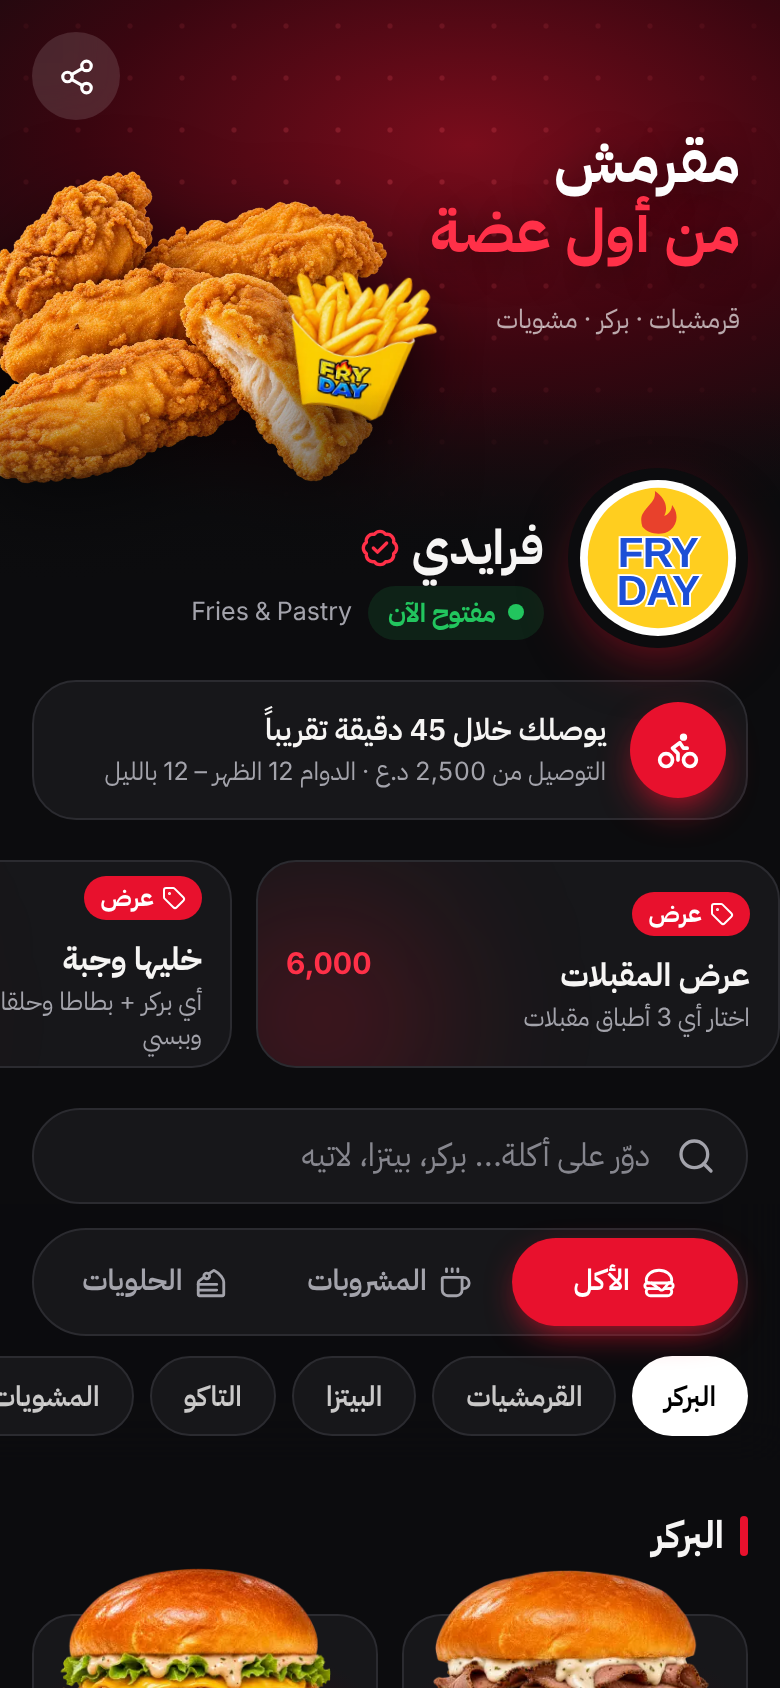
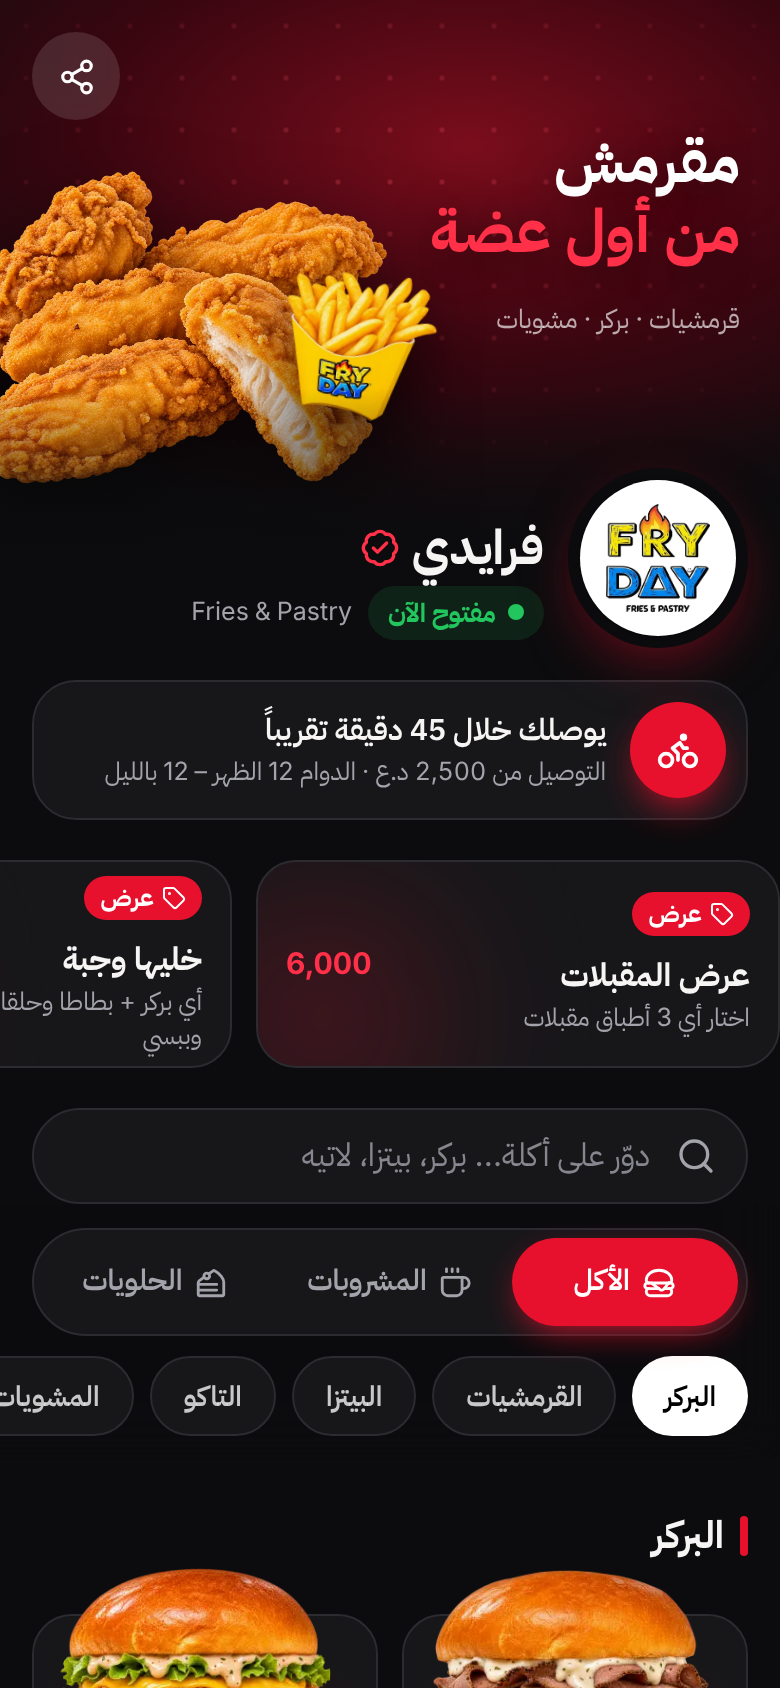
إضافة شعار فرايدي الرسمي لكل النماذج + تحديث القرارات
- الشعار الرسمي (خلفية شفافة) بدل الشعار المرسوم: دائرة بيضاء بالرؤوس وبمكان الأصناف بلا صورة
- أيقونات favicon و apple-touch-icon و 192/512 من الشعار
- CLAUDE.md: سعر السطر يشمل الإضافات (مؤكد)، ماكو منطقة ثالثة، وقت التوصيل 45 دقيقة
- تحديث اللقطات النهائية

Claude-Session: https://claude.ai/code/session_01PqrfEhAJdwDcEq4tWxgRbc

Changed region(s): [[0.7385, 0.2773, 0.9538, 0.3697]]

diff --git a/src/components/Logo.tsx b/src/components/Logo.tsx
@@ -1,14 +1,25 @@
-/** شعار مؤقت (وردمارك FRY DAY بألوان العلبة) — يتبدل بملف الشعار الرسمي من أحمد */
-export function Logo({ size = 56, ring = true, className = '' }: { size?: number; ring?: boolean; className?: string }) {
+/** شعار فرايدي الرسمي (assets-input/logo-fryday.webp → public/brand/) */
+const base = import.meta.env.BASE_URL;
+
+interface Props {
+  size?: number;
+  /** badge = دائرة بيضاء والشعار داخلها (للرؤوس) · mark = الشعار وحده (للمساحات الكبيرة) */
+  variant?: 'badge' | 'mark';
+  /** حلقة بيضاء خارجية (قديم — يبقى للتوافق) */
+  ring?: boolean;
+  className?: string;
+}
+
+export function Logo({ size = 56, variant = 'badge', className = '' }: Props) {
+  if (variant === 'mark') {
+    return (
+      <img src={`${base}brand/logo.webp`} alt="شعار فرايدي FRY DAY" width={size} height={size} decoding="async"
+        className={`object-contain drop-shadow-[0_10px_18px_rgba(0,0,0,0.18)] ${className}`} style={{ width: size, height: size }} />
+    );
+  }
   return (
-    <svg width={size} height={size} viewBox="0 0 100 100" className={className} role="img" aria-label="شعار فرايدي FRY DAY">
-      {ring && <circle cx="50" cy="50" r="50" fill="#fff" />}
-      <circle cx="50" cy="50" r={ring ? 45 : 50} fill="#FFCE1F" />
-      <path d="M40 22c3-6 9-8 8-15 6 4 9 10 6 16 3-1 5-4 5-7 4 5 4 12-1 16-5 4-14 3-18-2-1-3-1-6 0-8z" fill="#E8412C" />
-      <g fontFamily="'Baloo Bhaijaan 2','Arial Black',sans-serif" fontWeight="800" textAnchor="middle" fill="#1C4FD6" stroke="#fff" strokeWidth="2.4" paintOrder="stroke" letterSpacing="-0.5">
-        <text x="50" y="56" fontSize="27">FRY</text>
-        <text x="50" y="80" fontSize="27">DAY</text>
-      </g>
-    </svg>
+    <span className={`inline-grid shrink-0 place-items-center rounded-full bg-white shadow-[0_6px_16px_-8px_rgba(0,0,0,0.35)] ring-1 ring-black/5 ${className}`} style={{ width: size, height: size }}>
+      <img src={`${base}brand/logo-sm.webp`} alt="شعار فرايدي FRY DAY" decoding="async" className="object-contain" style={{ width: size * 0.7, height: size * 0.7 }} />
+    </span>
   );
 }

diff --git a/src/themes/c/index.tsx b/src/themes/c/index.tsx
@@ -53,7 +53,7 @@ function RestaurantHead() {
   return (
     <div className="relative z-10 -mt-14 px-4">
       <div className="flex items-end gap-3">
-        <div className="rounded-full bg-bg p-1.5 shadow-[0_10px_30px_-8px_rgba(232,17,45,0.55)]"><Logo size={78} ring /></div>
+        <div className="rounded-full bg-bg p-1.5 shadow-[0_10px_30px_-8px_rgba(232,17,45,0.55)]"><Logo size={78} /></div>
         <div className="min-w-0 flex-1 pb-1">
           <h1 className="flex items-center gap-1.5 text-[24px] leading-tight font-bold">{s.restaurantName} <BadgeCheck size={20} className="text-primary-2" aria-label="المطعم الرسمي" /></h1>
           <div className="mt-1 flex items-center gap-2"><StatusPill /><span className="text-[12.5px] text-muted">{s.tagline}</span></div>
@@ -210,7 +210,7 @@ function ItemC({ item, onClose }: { item: Item; onClose: () => void }) {
             <Plate file={item.image} alt={item.name} size="lg" eager />
           </motion.div>
         ) : (
-          <div className="absolute inset-0 grid place-items-center"><Logo size={130} /></div>
+          <div className="absolute inset-0 grid place-items-center"><Logo size={150} className="shadow-[0_16px_40px_-14px_rgba(0,0,0,0.45)]" /></div>
         )}
       </div>
       <div className="relative -mt-4 flex-1 rounded-t-[28px] border-t border-line bg-surface px-4 pt-5">

diff --git a/index.html b/index.html
@@ -6,7 +6,9 @@
     <meta name="theme-color" content="#FFC72C" />
     <meta name="description" content="منيو فرايدي — اطلب أونلاين، يوصلك الطلب على واتساب. النجف — شارع الغدير" />
     <title>فرايدي — المنيو</title>
-    <link rel="icon" href="./favicon.svg" type="image/svg+xml" />
+    <link rel="icon" href="./favicon.png" type="image/png" />
+    <link rel="apple-touch-icon" href="./brand/apple-touch-icon.png" />
+    <link rel="preload" href="./brand/logo-sm.webp" as="image" type="image/webp" />
   </head>
   <body>
     <div id="root"></div>

diff --git a/src/screens/Chooser.tsx b/src/screens/Chooser.tsx
@@ -16,7 +16,7 @@ export function Chooser() {
   return (
     <div className="mx-auto min-h-dvh max-w-[480px] bg-[#f7f4ee] px-4 pt-8 pb-12 text-[#1a1612]" style={{ fontFamily: 'Cairo, system-ui, sans-serif' }}>
       <div className="flex items-center gap-3">
-        <Logo size={60} />
+        <Logo size={64} variant="mark" />
         <div>
           <h1 className="text-[24px] leading-tight font-extrabold">منيو فرايدي</h1>
           <p className="text-[14px] text-[#685f54]">المرحلة 0 — اختار النموذج اللي يعجبك</p>

diff --git a/src/themes/a/index.tsx b/src/themes/a/index.tsx
@@ -207,7 +207,7 @@ function ItemA({ item, onClose }: { item: Item; onClose: () => void }) {
             <Plate file={item.image} alt={item.name} size="lg" eager />
           </motion.div>
         ) : (
-          <div className="absolute inset-0 grid place-items-center"><Logo size={120} /></div>
+          <div className="absolute inset-0 grid place-items-center"><Logo size={150} className="shadow-[0_16px_40px_-14px_rgba(0,0,0,0.35)]" /></div>
         )}
       </div>
       <div className="relative -mt-6 flex-1 rounded-t-[28px] bg-bg px-4 pt-6">

diff --git a/src/themes/b/index.tsx b/src/themes/b/index.tsx
@@ -183,7 +183,7 @@ function ItemB({ item, onClose }: { item: Item; onClose: () => void }) {
             <Plate file={item.image} alt={item.name} size="lg" eager />
           </motion.div>
         ) : (
-          <div className="absolute inset-x-0 top-16 grid place-items-center"><Logo size={130} /></div>
+          <div className="absolute inset-x-0 top-16 grid place-items-center"><Logo size={150} className="shadow-[0_16px_40px_-14px_rgba(0,0,0,0.45)]" /></div>
         )}
       </div>
       <div className="flex-1 px-5 pt-3">

diff --git a/src/themes/d/index.tsx b/src/themes/d/index.tsx
@@ -172,7 +172,7 @@ function ItemD({ item, onClose }: { item: Item; onClose: () => void }) {
             <Plate file={item.image} alt={item.name} size="lg" eager />
           </motion.div>
         ) : (
-          <div className="absolute inset-0 grid place-items-center"><Logo size={130} /></div>
+          <div className="absolute inset-0 grid place-items-center"><Logo size={150} className="shadow-[0_16px_40px_-14px_rgba(0,0,0,0.45)]" /></div>
         )}
       </div>
       <div className="flex-1 px-5 pt-3">

diff --git a/CLAUDE.md b/CLAUDE.md
@@ -15,8 +15,9 @@
 | واتساب الطلبات | `9647715796059` (رقم أحمد للتجربة — يتغير من الإعدادات) |
 | الاتصال | 7320 و 07893000406 |
 | العنوان | النجف — شارع الغدير، مجاور جسر المشاة |
+| وقت التوصيل | 45 دقيقة تقريباً (أكده أحمد) — `settings.etaMinutes` |
 | الدوام | 12:00 الظهر — 12:00 بالليل (بغداد UTC+3). برا الدوام: المنيو يفتح، زر الطلب مسكّر + "نستقبل الطلبات من الساعة 12 الظهر" |
-| مناطق التوصيل | النجف 2,500 — الكوفة 3,000. "التوصيل داخل النجف والكوفة فقط" |
+| مناطق التوصيل | النجف 2,500 — الكوفة 3,000 **فقط** (ماكو منطقة ثالثة). "التوصيل داخل النجف والكوفة فقط" |
 | حد أدنى / توصيل مجاني | لا يوجد (إعدادات `minOrder` و `freeDelivery` جاهزة للتفعيل) |
 | الدفع | كاش عند الاستلام |
 | نوع الطلب | توصيل أو استلام من المطعم |
@@ -24,7 +25,7 @@
 | كيك المناسبات (S025) | سعره "حسب الطلب" → ما ينطلب أونلاين، زر "اتصل بينا" |
 | أسماء الأصناف بالرسالة | نفس أسماء المنيو (مطابقة لنظام الكاشير) |
 | العملة | د.ع، أرقام لاتينية بفواصل (12,500) |
-| سعر السطر بالرسالة | **يشمل الخيارات** (2× بركر + وجبة = 26,000) حتى المجموع يطابق |
+| سعر السطر بالرسالة | **يشمل الخيارات** (2× بركر + وجبة = 26,000) حتى المجموع يطابق — أكده أحمد (المثال الأول بالبرومبت كان غلط) |
 | الخيارات بالرسالة | الإجباري (واحد) بين قوسين جنب الاسم `(وسط)`، والباقي نقاط تحت الصنف `• ...` |
 | ممنوع | تقييمات نجوم، سعرات، أي رقم وهمي، أي عرض/خصم مو حقيقي |
 | مؤجل (لا تبنيه) | نقاط الولاء، أكواد الخصم، الطلب المجدول، طلب الطاولة، تتبع السائق |
@@ -36,7 +37,7 @@
 4. حوّل لوجبة +3,000: البركر والتوست (عدا وجبة الأطفال).
 5. صلصة إضافية 1,000: المقالي فقط.
 6. إضافات القهوة: القهوة المختصة فقط.
-7. منطقة ثالثة "أبعد من النجف والكوفة": **بانتظار جواب أحمد**.
+7. منطقة ثالثة "أبعد من النجف والكوفة": **ماكو** — بس النجف والكوفة (جواب أحمد).
 
 ## التقنية
 
@@ -91,7 +92,9 @@ npx vite preview --port 4173 & node scripts/screenshots.mjs   # لقطات (EXTR
 - [x] **المرحلة 0 — أربع نماذج تصميم** (A الخلطة، B البرتقالي، C الفخم الأسود، D الأصفر) — منشورة على GitHub Pages عبر Actions.
   - لقطات نهائية: `screenshots/phase0/` (16 لقطة: home/item/cart/checkout لكل نموذج).
   - زر التبديل العائم وخيار "تجربة الطلب برا الدوام" أدوات تجربة للمرحلة 0 فقط (تنشال بالمرحلة 1).
-  - الشعار الحالي مؤقت (SVG مرسوم) — نحتاج ملف الشعار الرسمي من أحمد.
+  - الشعار الرسمي: `assets-input/logo-fryday.webp` (من أحمد، خلفية شفافة) → `public/brand/` (logo.webp، logo-sm.webp، أيقونات 192/512، apple-touch-icon، favicon.png). مكون `Logo`: `badge` (دائرة بيضاء) أو `mark`.
+  - قطة فرايدي: بانتظار ملفها من أحمد (للمرحلة 2).
+  - GitHub Pages مفعّل (Source: GitHub Actions)، والنشر يصير من فرع `main` بعد دمج الـ PR.
   - ⏸ **بانتظار اختيار أحمد للنموذج.**
 - [ ] المرحلة 1 — الأساس: Cloudflare (Pages + Functions + D1 + R2)، `POST /api/orders` بعداد يومي، لوحة `/admin`، PWA، بحث ذكي، وقت الوصول المتوقع، اختبارات.
 - [ ] المرحلة 2 — المبيعات.
